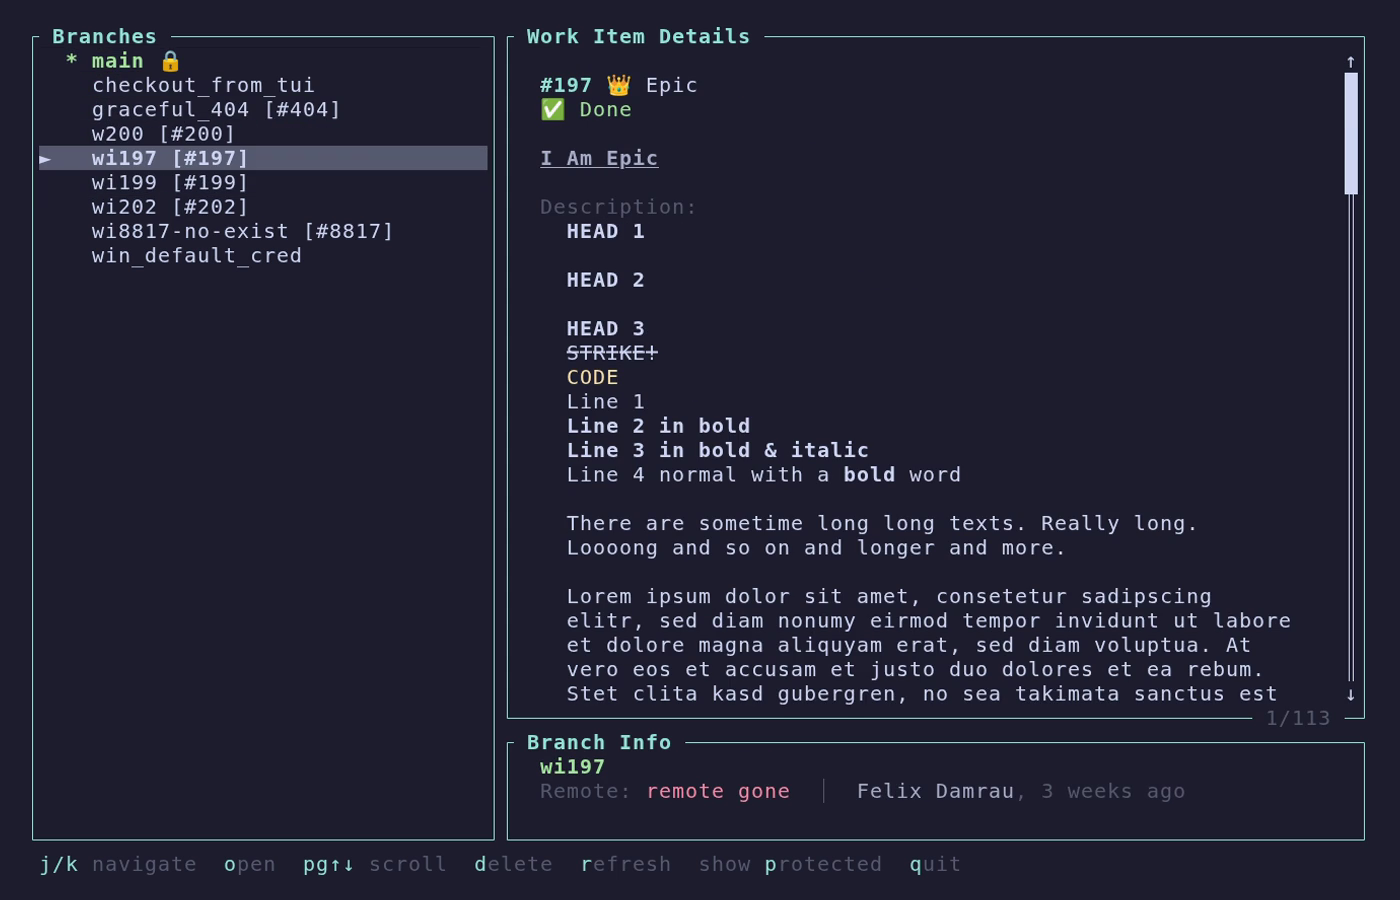
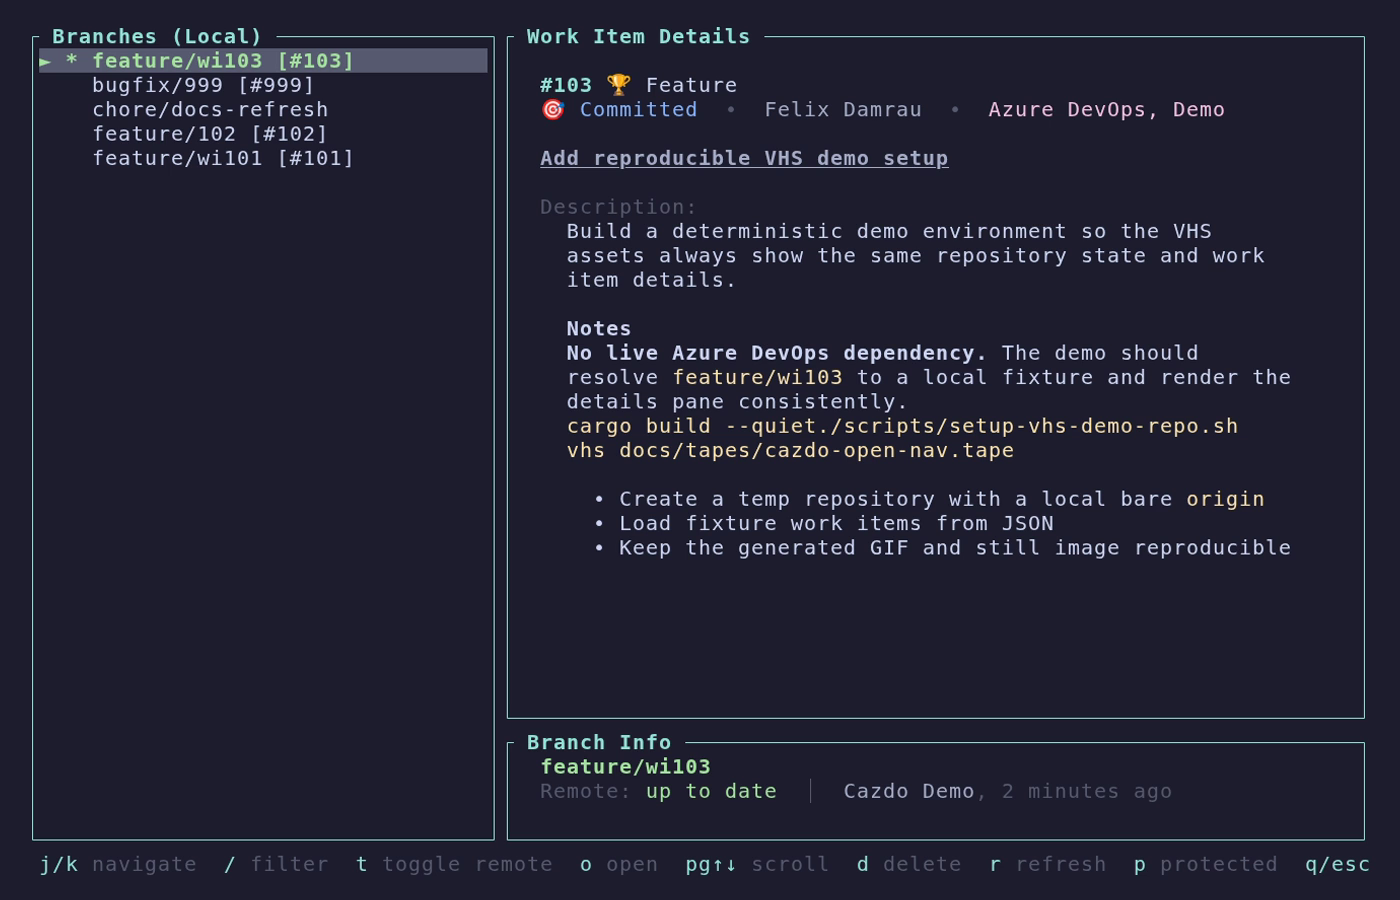
Polish work items and images, fish only tape docs

diff --git a/docs/tapes/README.md b/docs/tapes/README.md
@@ -6,32 +6,33 @@ See [vhs](https://github.com/charmbracelet/vhs) for the tape recording tool.
 
 ## Render Demo
 
-```bash
+```fish
 # Build the local binary used by the demo wrapper
 cargo build --quiet
 
 # Create a deterministic temp repo with a local bare origin
-eval "$(./scripts/setup-vhs-demo-repo.sh)"
+for line in (./scripts/setup-vhs-demo-repo.sh)
+    set parts (string split -m1 '=' $line)
+    set -gx $parts[1] $parts[2]
+end
 
 # Render GIF for README animation from the generated demo repo
-(
-  cd "$DEMO_REPO"
-  vhs "$WORKSPACE_ROOT/docs/tapes/cazdo-open-nav.tape" \
-    -o "$WORKSPACE_ROOT/docs/images/cazdo-open-nav.gif"
-)
+pushd $DEMO_REPO
+vhs $WORKSPACE_ROOT/docs/tapes/cazdo-open-nav.tape \
+    -o $WORKSPACE_ROOT/docs/images/cazdo-open-nav.gif
+popd
 
 # Render MP4 for better quality
-(
-  cd "$DEMO_REPO"
-  vhs "$WORKSPACE_ROOT/docs/tapes/cazdo-open-nav.tape" \
-    -o "$WORKSPACE_ROOT/docs/images/cazdo-open-nav.mp4"
-)
+pushd $DEMO_REPO
+vhs $WORKSPACE_ROOT/docs/tapes/cazdo-open-nav.tape \
+    -o $WORKSPACE_ROOT/docs/images/cazdo-open-nav.mp4
+popd
 
-# Capture a still screenshot from 7.0s in the MP4
-ffmpeg -ss 00:00:07.0 -i "$WORKSPACE_ROOT/docs/images/cazdo-open-nav.mp4" -frames:v 1 -update 1 "$WORKSPACE_ROOT/docs/images/cazdo-open-nav-still.png"
+# Capture a still screenshot while work item #103 and its description are visible
+ffmpeg -ss 00:00:02.2 -i $WORKSPACE_ROOT/docs/images/cazdo-open-nav.mp4 -frames:v 1 -update 1 $WORKSPACE_ROOT/docs/images/cazdo-open-nav-still.png
 
 # Cleanup mp4
-rm "$WORKSPACE_ROOT/docs/images/cazdo-open-nav.mp4"
+rm $WORKSPACE_ROOT/docs/images/cazdo-open-nav.mp4
 ```
 
 The generated repo uses a local bare `origin` plus `CAZDO_DEMO_WORK_ITEMS`, so the tape stays independent from your current branch layout, PAT, and network access.